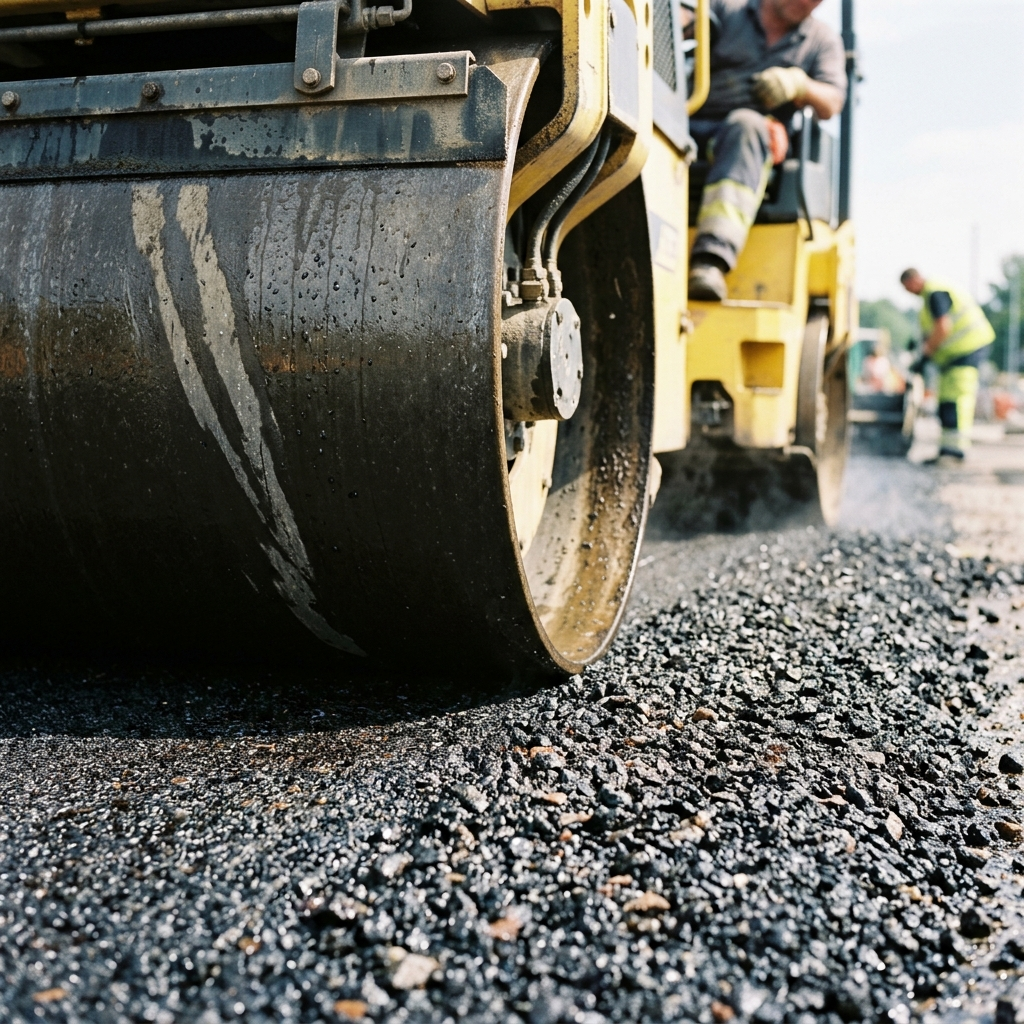
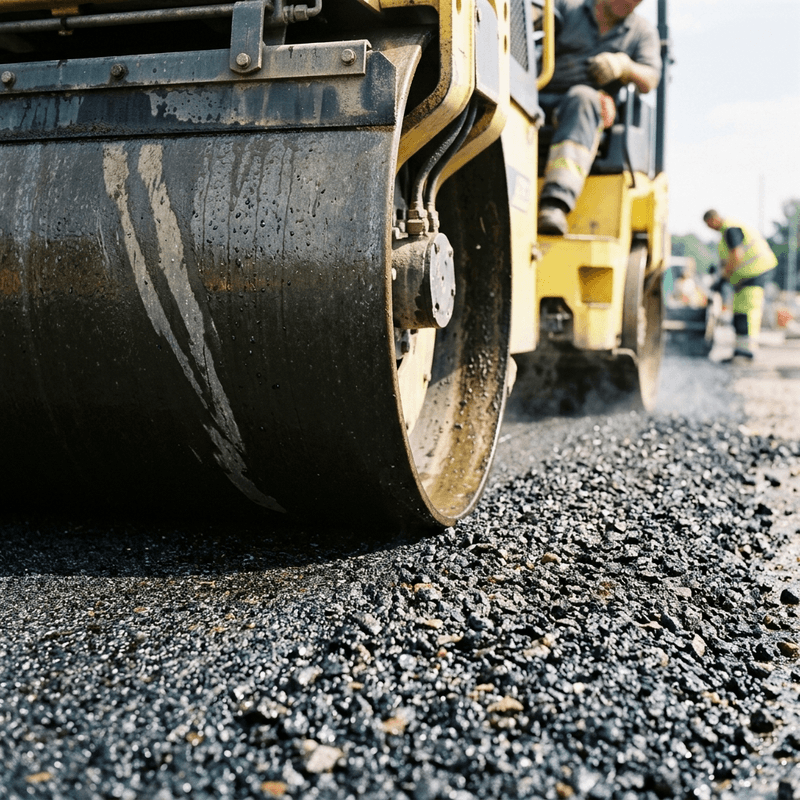
enhance performance

diff --git a/compress.js b/compress.js
@@ -1,0 +1,49 @@
+import sharp from 'sharp';
+import fs from 'fs';
+import path from 'path';
+
+const imagesDir = 'public/images';
+
+async function compressImage(filename, width) {
+  const filePath = path.join(imagesDir, filename);
+  const tempPath = path.join(imagesDir, 'temp_' + filename);
+  
+  const oldSize = fs.statSync(filePath).size;
+  console.log(`Compressing ${filename} (original size: ${(oldSize / 1024 / 1024).toFixed(2)} MB)...`);
+  
+  const fileBuffer = fs.readFileSync(filePath);
+  
+  // Read buffer, resize to optimal web dimensions, compress to highly optimized PNG, write, and replace
+  await sharp(fileBuffer)
+    .resize({ width: width, withoutEnlargement: true })
+    .png({ compressionLevel: 9, effort: 10 })
+    .toFile(tempPath);
+    
+  fs.unlinkSync(filePath);
+  fs.renameSync(tempPath, filePath);
+  
+  const newSize = fs.statSync(filePath).size;
+  console.log(`Finished ${filename}. New size: ${(newSize / 1024).toFixed(2)} KB (Reduced by ${((oldSize - newSize) / oldSize * 100).toFixed(1)}%)`);
+}
+
+async function run() {
+  try {
+    // 1. Compress main hero graphic (currently 7.3MB!)
+    await compressImage('hero-asphalt.png', 800);
+    
+    // 2. Compress background AMP factory image (currently 785KB)
+    await compressImage('amp-factory.png', 1200);
+    
+    // 3. Compress blog texture image (currently 983KB)
+    await compressImage('blog-asphalt.png', 800);
+    
+    // 4. Compress OpenGraph image (currently 893KB)
+    await compressImage('og-image.png', 1200);
+    
+    console.log('\nAll images successfully optimized for PageSpeed!');
+  } catch (err) {
+    console.error('Error during image optimization:', err);
+  }
+}
+
+run();
